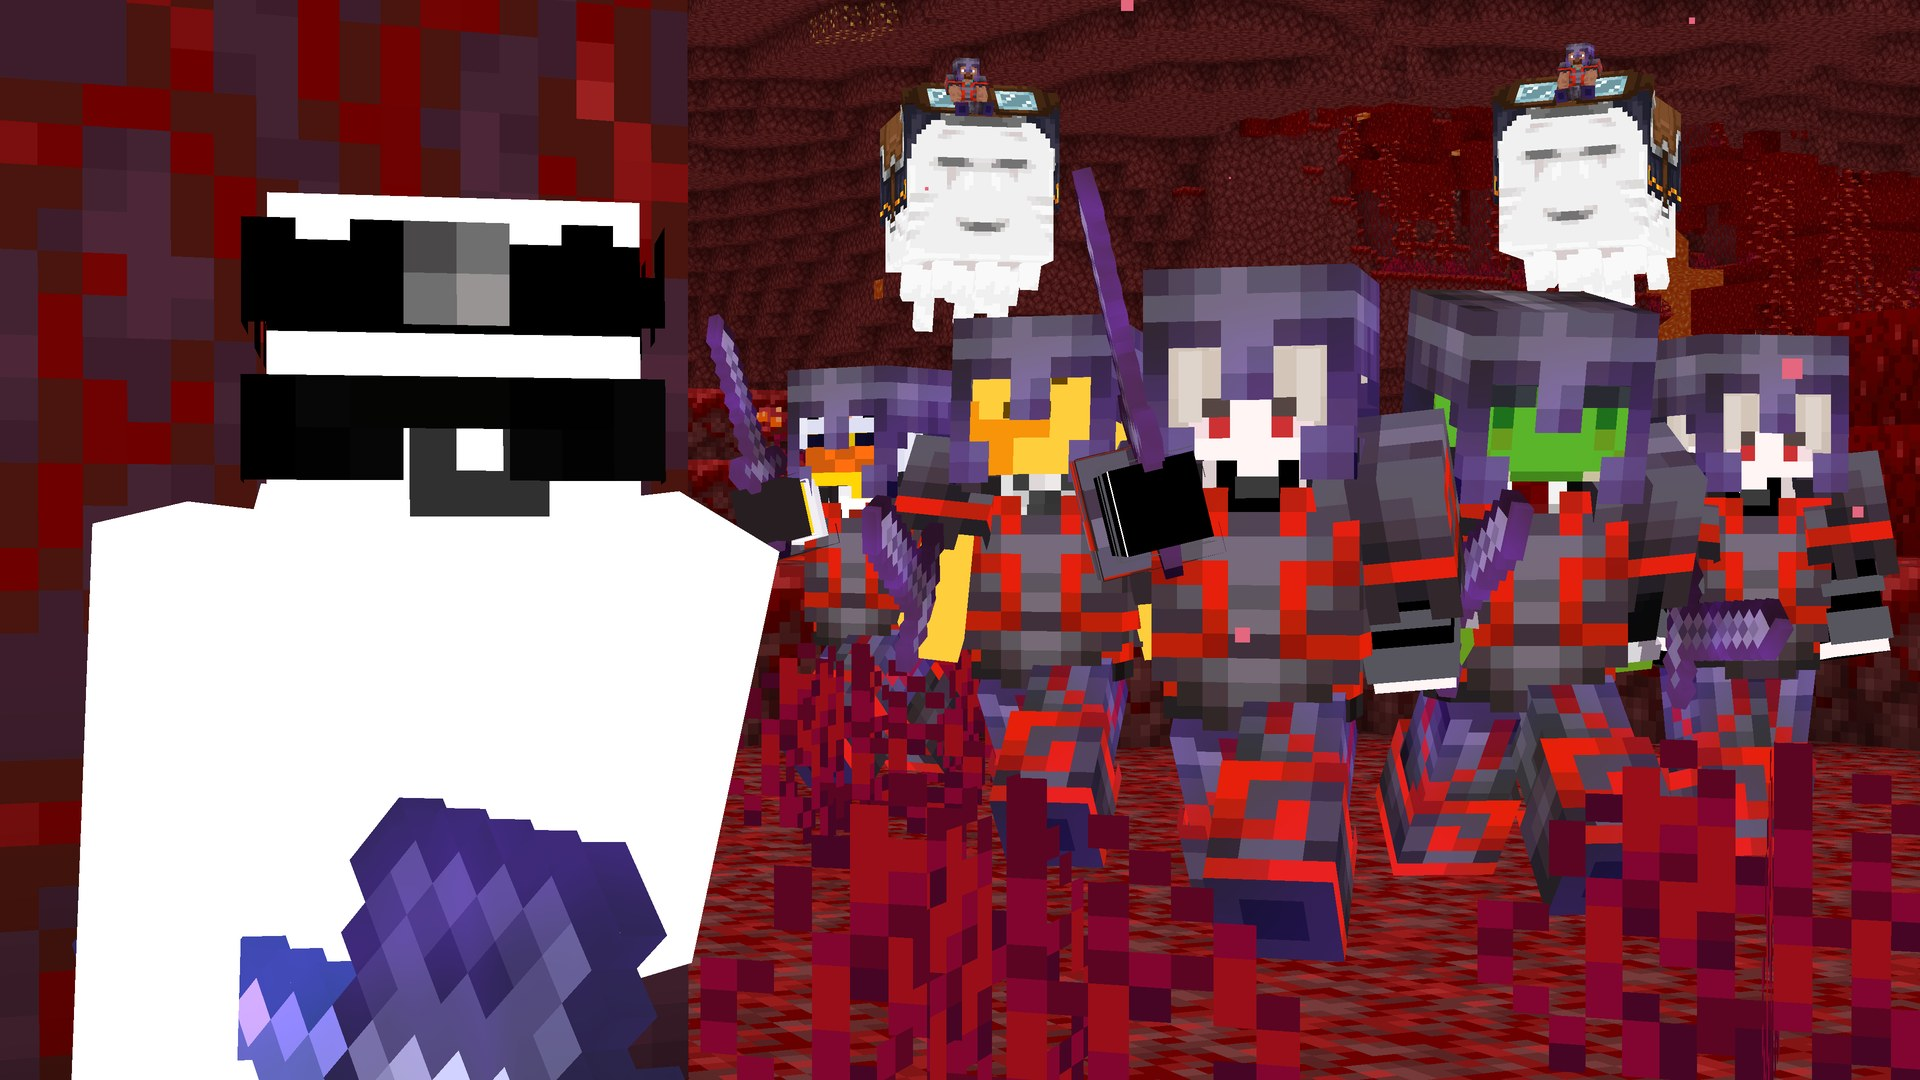
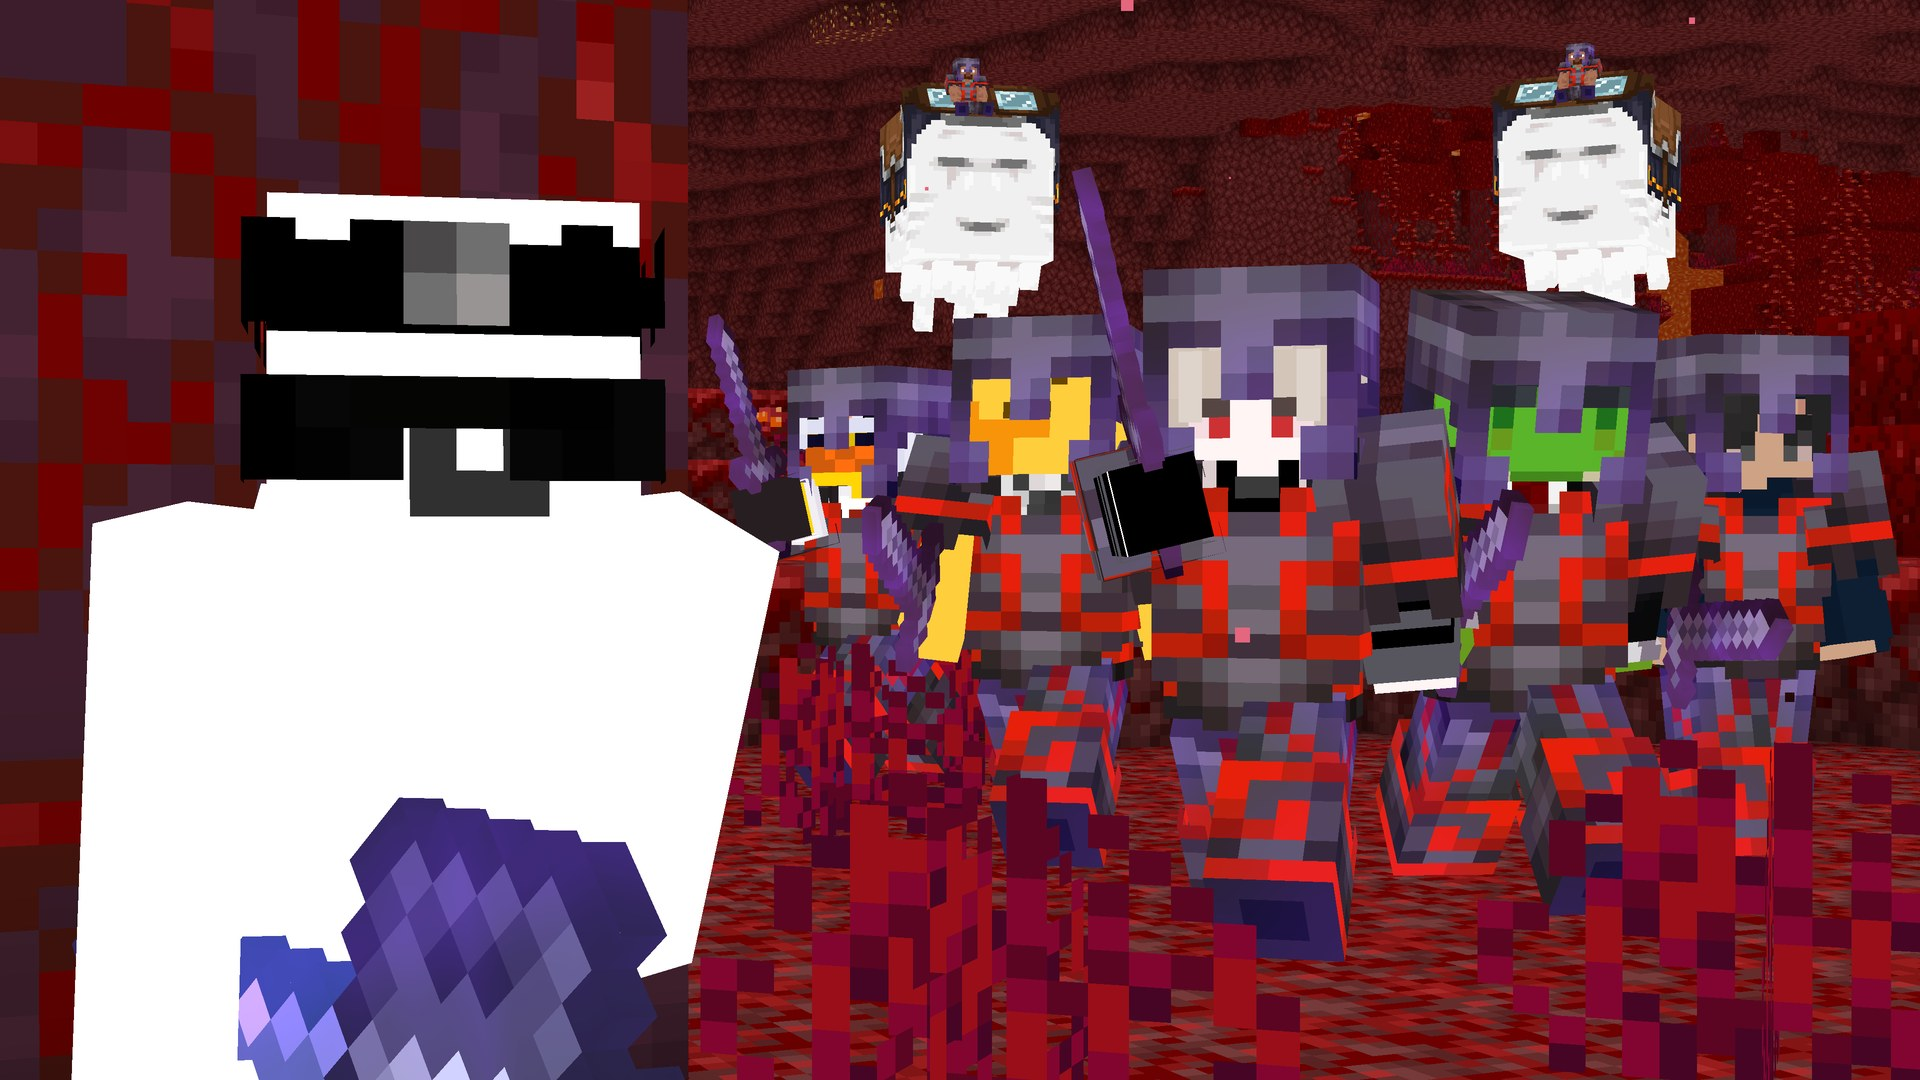
Update the example to the final version

Changed region(s): [[0.875, 0.3361, 0.9688, 0.4889], [0.9375, 0.5194, 1.0, 0.6111], [0.8438, 0.5806, 0.875, 0.6111]]

diff --git a/README.md b/README.md
@@ -30,7 +30,7 @@ What the plugin did:
 - **The close character:** lit from the side of the light source.
 - **Atmosphere:** light depth of field, crimson spores and embers, split toning and a vignette.
 
-Every step was measured against a reference image with `tools/compare.py` and `tools/glow_profile.py`, then revised from the client's feedback: a brighter close character, subtler trims, less background blur. It was rendered at 3840x2160 by `tools/thumbkit.py`.
+Every step was measured against a reference image with `tools/compare.py` and `tools/glow_profile.py`, then revised from the client's feedback: a brighter close character, subtler trims, less background blur, and one clan member re-rendered with a new skin. It was rendered at 3840x2160 by `tools/thumbkit.py`.
 
 ## Commands
 | Command | What it does |
